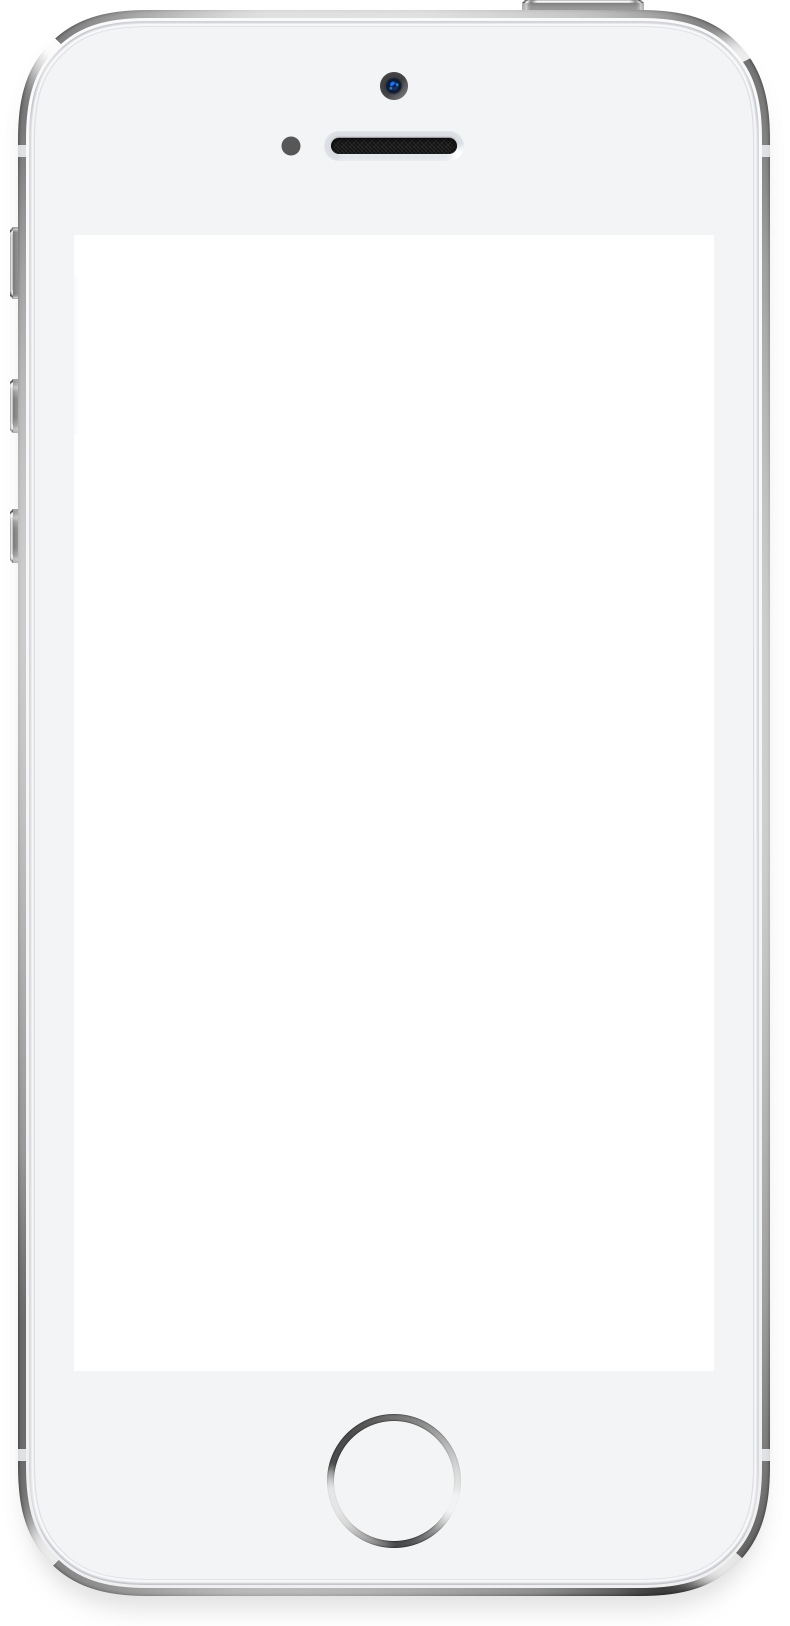
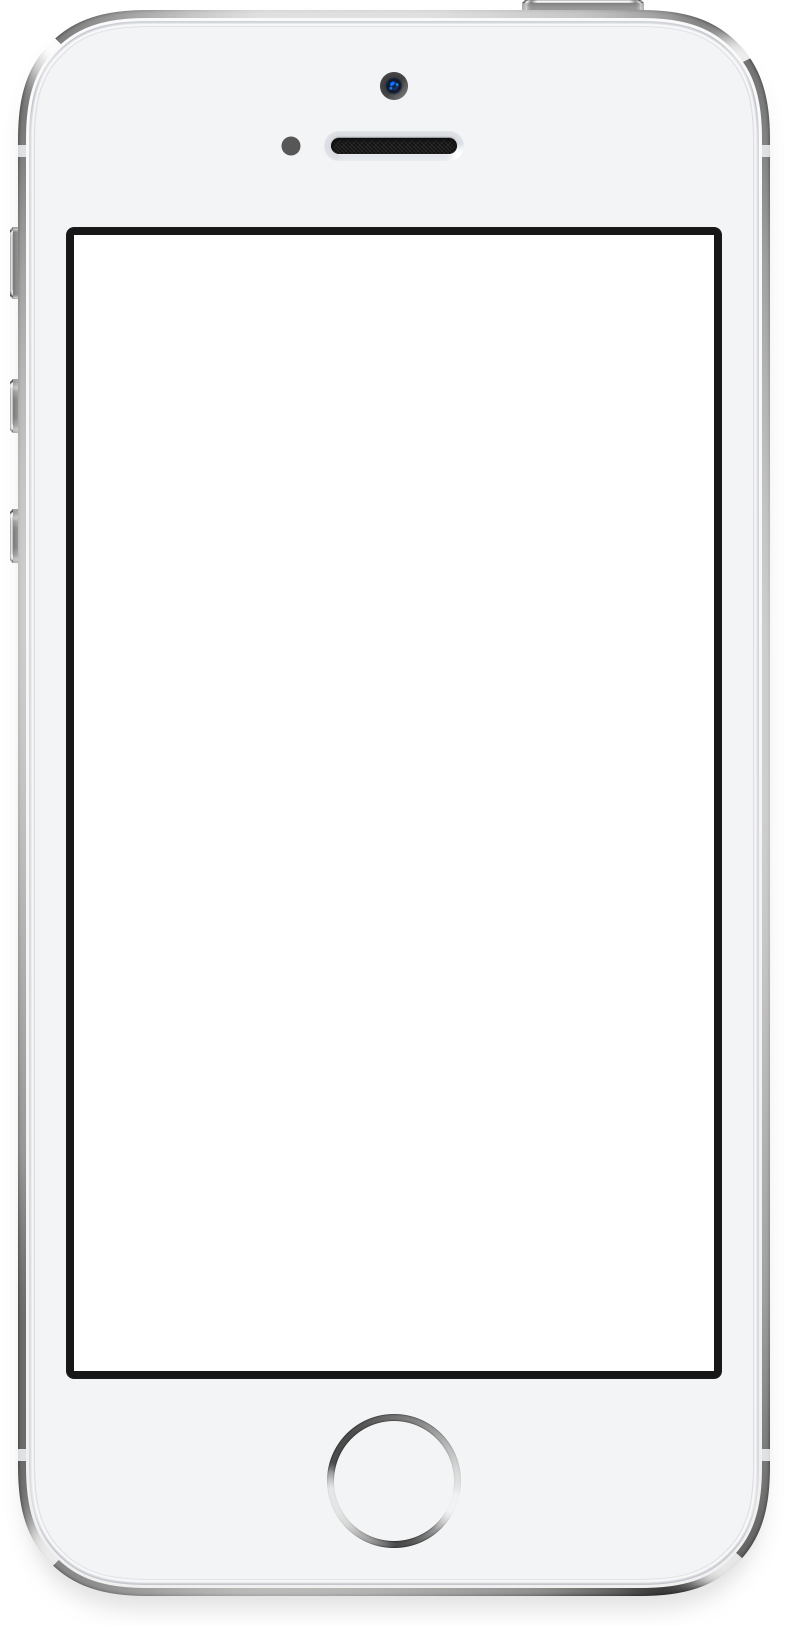
Setting the iphone example back up.

Changed region(s): [[0.0608, 0.123, 0.9114, 0.861]]

diff --git a/lib/sass/docs.scss b/lib/sass/docs.scss
@@ -137,6 +137,121 @@ h1, h2, h3, h4, h5, h6 {
   word-wrap: normal;
 }
 
+// Misc
+// --------------------------------------------------
+
+.notice-banner {
+  height: 0;
+  margin: 0;
+  padding: 0;
+  color: #333;
+  font-size: 16px;
+  text-align: center;
+  background-color: #fff9c4;
+  opacity: 0;
+  -moz-animation: shownotice 1s infinite;
+}
+
+.iphone {
+  display: none;
+}
+
+hr {
+  height: 0;
+  margin: 10px 0 30px;
+  border: solid #ddd;
+  border-width: 1px 0 0;
+  clear: both;
+}
+
+.column-group {
+  *zoom: 1;
+}
+.column-group:before,
+.column-group:after {
+  display: table;
+  line-height: 0;
+  content: "";
+}
+.column-group:after {
+  clear: both;
+}
+// You can also use a <br class="clear">
+.clear {
+  display: block;
+  width: 0;
+  height: 0;
+  overflow: hidden;
+  visibility: hidden;
+  clear: both;
+}
+
+// Docs media queries
+// --------------------------------------------------
+
+// Tablet to desktop 
+// --------------------------------------------------
+@media screen and (min-width: 768px) {
+  .iphone {
+    display: block;
+    position: fixed;
+    top: 50px;
+    left: 50%;
+    float: right;
+    width: 395px;
+    height: 813px;
+    margin-left: 140px;
+    font-family: "Helvetica Neue", sans-serif;
+    background-image: url("../img/iphone.png");
+    background-size: 100%;
+    background-repeat: no-repeat;
+  }
+  .iphone .iphone-content {
+    position: absolute;
+    top: 118px;
+    left: 37px;
+    width: 320px;
+    height: 568px;
+    overflow: hidden;
+    background-color: #efeff4;
+  }
+  .iphone .content,
+  .iphone [class*="bar"] {
+    position: absolute;
+  }
+  .iphone .content {
+    top: 0;
+    left: 0;
+    right: 0;
+    bottom: 0;
+  }
+  .component,
+  .component-example-fullbleed,
+  .highlight {
+    margin-left: 0;
+    margin-right: 0;
+  }
+  .component {
+    padding-left: 0;
+    padding-right: 0;
+    opacity: .5;
+    @include transition(opacity .2s ease-in-out);
+
+    &.active {
+      opacity: 1;
+    }
+  }
+  .component-example {
+    display: none;
+  }
+  .highlight pre {
+    border-left: 1px solid #ddd;
+    border-right: 1px solid #ddd;
+    border-radius: 3px;
+  }
+}
+
+
 
 // The Chassis grid
 // --------------------------------------------------
@@ -213,17 +328,6 @@ h1, h2, h3, h4, h5, h6 {
   .lg-offset-9     { margin-left: 75%; }
   .lg-offset-10    { margin-left: 83.333%; }
   .lg-offset-11    { margin-left: 91.666%; }
-
-  .iphone {
-    display: block;
-    position: fixed;
-    top: 50px;
-    float: right;
-    width: 375px;
-    height: 806px;
-    font-family: "Helvetica Neue", sans-serif;
-  }
-
 }
 
 
@@ -243,56 +347,6 @@ h1, h2, h3, h4, h5, h6 {
     margin-left: -30px;
     margin-right: -30px;
   }
-}
-
-
-// Misc
-// --------------------------------------------------
-
-.notice-banner {
-  height: 0;
-  margin: 0;
-  padding: 0;
-  color: #333;
-  font-size: 16px;
-  text-align: center;
-  background-color: #fff9c4;
-  opacity: 0;
-  -moz-animation: shownotice 1s infinite;
-}
-
-.iphone {
-  display: none;
-}
-
-hr {
-  height: 0;
-  margin: 10px 0 30px;
-  border: solid #ddd;
-  border-width: 1px 0 0;
-  clear: both;
-}
-
-.column-group {
-  *zoom: 1;
-}
-.column-group:before,
-.column-group:after {
-  display: table;
-  line-height: 0;
-  content: "";
-}
-.column-group:after {
-  clear: both;
-}
-// You can also use a <br class="clear">
-.clear {
-  display: block;
-  width: 0;
-  height: 0;
-  overflow: hidden;
-  visibility: hidden;
-  clear: both;
 }
 
 

diff --git a/docs-assets/css/docs.css b/docs-assets/css/docs.css
@@ -140,6 +140,120 @@ h1, h2, h3, h4, h5, h6 {
   word-wrap: normal;
 }
 
+.notice-banner {
+  height: 0;
+  margin: 0;
+  padding: 0;
+  color: #333;
+  font-size: 16px;
+  text-align: center;
+  background-color: #fff9c4;
+  opacity: 0;
+  -moz-animation: shownotice 1s infinite;
+}
+
+.iphone {
+  display: none;
+}
+
+hr {
+  height: 0;
+  margin: 10px 0 30px;
+  border: solid #ddd;
+  border-width: 1px 0 0;
+  clear: both;
+}
+
+.column-group {
+  *zoom: 1;
+}
+
+.column-group:before,
+.column-group:after {
+  display: table;
+  line-height: 0;
+  content: "";
+}
+
+.column-group:after {
+  clear: both;
+}
+
+.clear {
+  display: block;
+  width: 0;
+  height: 0;
+  overflow: hidden;
+  visibility: hidden;
+  clear: both;
+}
+
+@media screen and (min-width: 768px) {
+  .iphone {
+    display: block;
+    position: fixed;
+    top: 50px;
+    left: 50%;
+    float: right;
+    width: 395px;
+    height: 813px;
+    margin-left: 140px;
+    font-family: "Helvetica Neue", sans-serif;
+    background-image: url("../img/iphone.png");
+    background-size: 100%;
+    background-repeat: no-repeat;
+  }
+
+  .iphone .iphone-content {
+    position: absolute;
+    top: 118px;
+    left: 37px;
+    width: 320px;
+    height: 568px;
+    overflow: hidden;
+    background-color: #efeff4;
+  }
+
+  .iphone .content,
+  .iphone [class*="bar"] {
+    position: absolute;
+  }
+
+  .iphone .content {
+    top: 0;
+    left: 0;
+    right: 0;
+    bottom: 0;
+  }
+
+  .component,
+  .component-example-fullbleed,
+  .highlight {
+    margin-left: 0;
+    margin-right: 0;
+  }
+
+  .component {
+    padding-left: 0;
+    padding-right: 0;
+    opacity: .5;
+    -webkit-transition: opacity 0.2s ease-in-out;
+    transition: opacity 0.2s ease-in-out;
+  }
+  .component.active {
+    opacity: 1;
+  }
+
+  .component-example {
+    display: none;
+  }
+
+  .highlight pre {
+    border-left: 1px solid #ddd;
+    border-right: 1px solid #ddd;
+    border-radius: 3px;
+  }
+}
 .container {
   margin-left: auto;
   margin-right: auto;
@@ -287,16 +401,6 @@ h1, h2, h3, h4, h5, h6 {
   .lg-offset-11 {
     margin-left: 91.666%;
   }
-
-  .iphone {
-    display: block;
-    position: relative;
-    top: 50px;
-    float: right;
-    width: 375px;
-    height: 806px;
-    font-family: "Helvetica Neue", sans-serif;
-  }
 }
 @media screen and (min-width: 1200px) {
   .container {
@@ -313,54 +417,6 @@ h1, h2, h3, h4, h5, h6 {
     margin-right: -30px;
   }
 }
-.notice-banner {
-  height: 0;
-  margin: 0;
-  padding: 0;
-  color: #333;
-  font-size: 16px;
-  text-align: center;
-  background-color: #fff9c4;
-  opacity: 0;
-  -moz-animation: shownotice 1s infinite;
-}
-
-.iphone {
-  display: none;
-}
-
-hr {
-  height: 0;
-  margin: 10px 0 30px;
-  border: solid #ddd;
-  border-width: 1px 0 0;
-  clear: both;
-}
-
-.column-group {
-  *zoom: 1;
-}
-
-.column-group:before,
-.column-group:after {
-  display: table;
-  line-height: 0;
-  content: "";
-}
-
-.column-group:after {
-  clear: both;
-}
-
-.clear {
-  display: block;
-  width: 0;
-  height: 0;
-  overflow: hidden;
-  visibility: hidden;
-  clear: both;
-}
-
 @-webkit-keyframes fadeintext {
   0% {
     opacity: 0;

diff --git a/components.html b/components.html
@@ -18,7 +18,7 @@ base_url: "../"
 
   <!-- Components -->
   <div class="column-group">
-    <div class="column units-2 lg-units-6">
+    <div class="column units-2 lg-units-7">
       <div class="section-header">
         <h2 class="section-title">Components</h2>
         <p class="section-description">Design patterns that serve as basic building blocks.</p>
